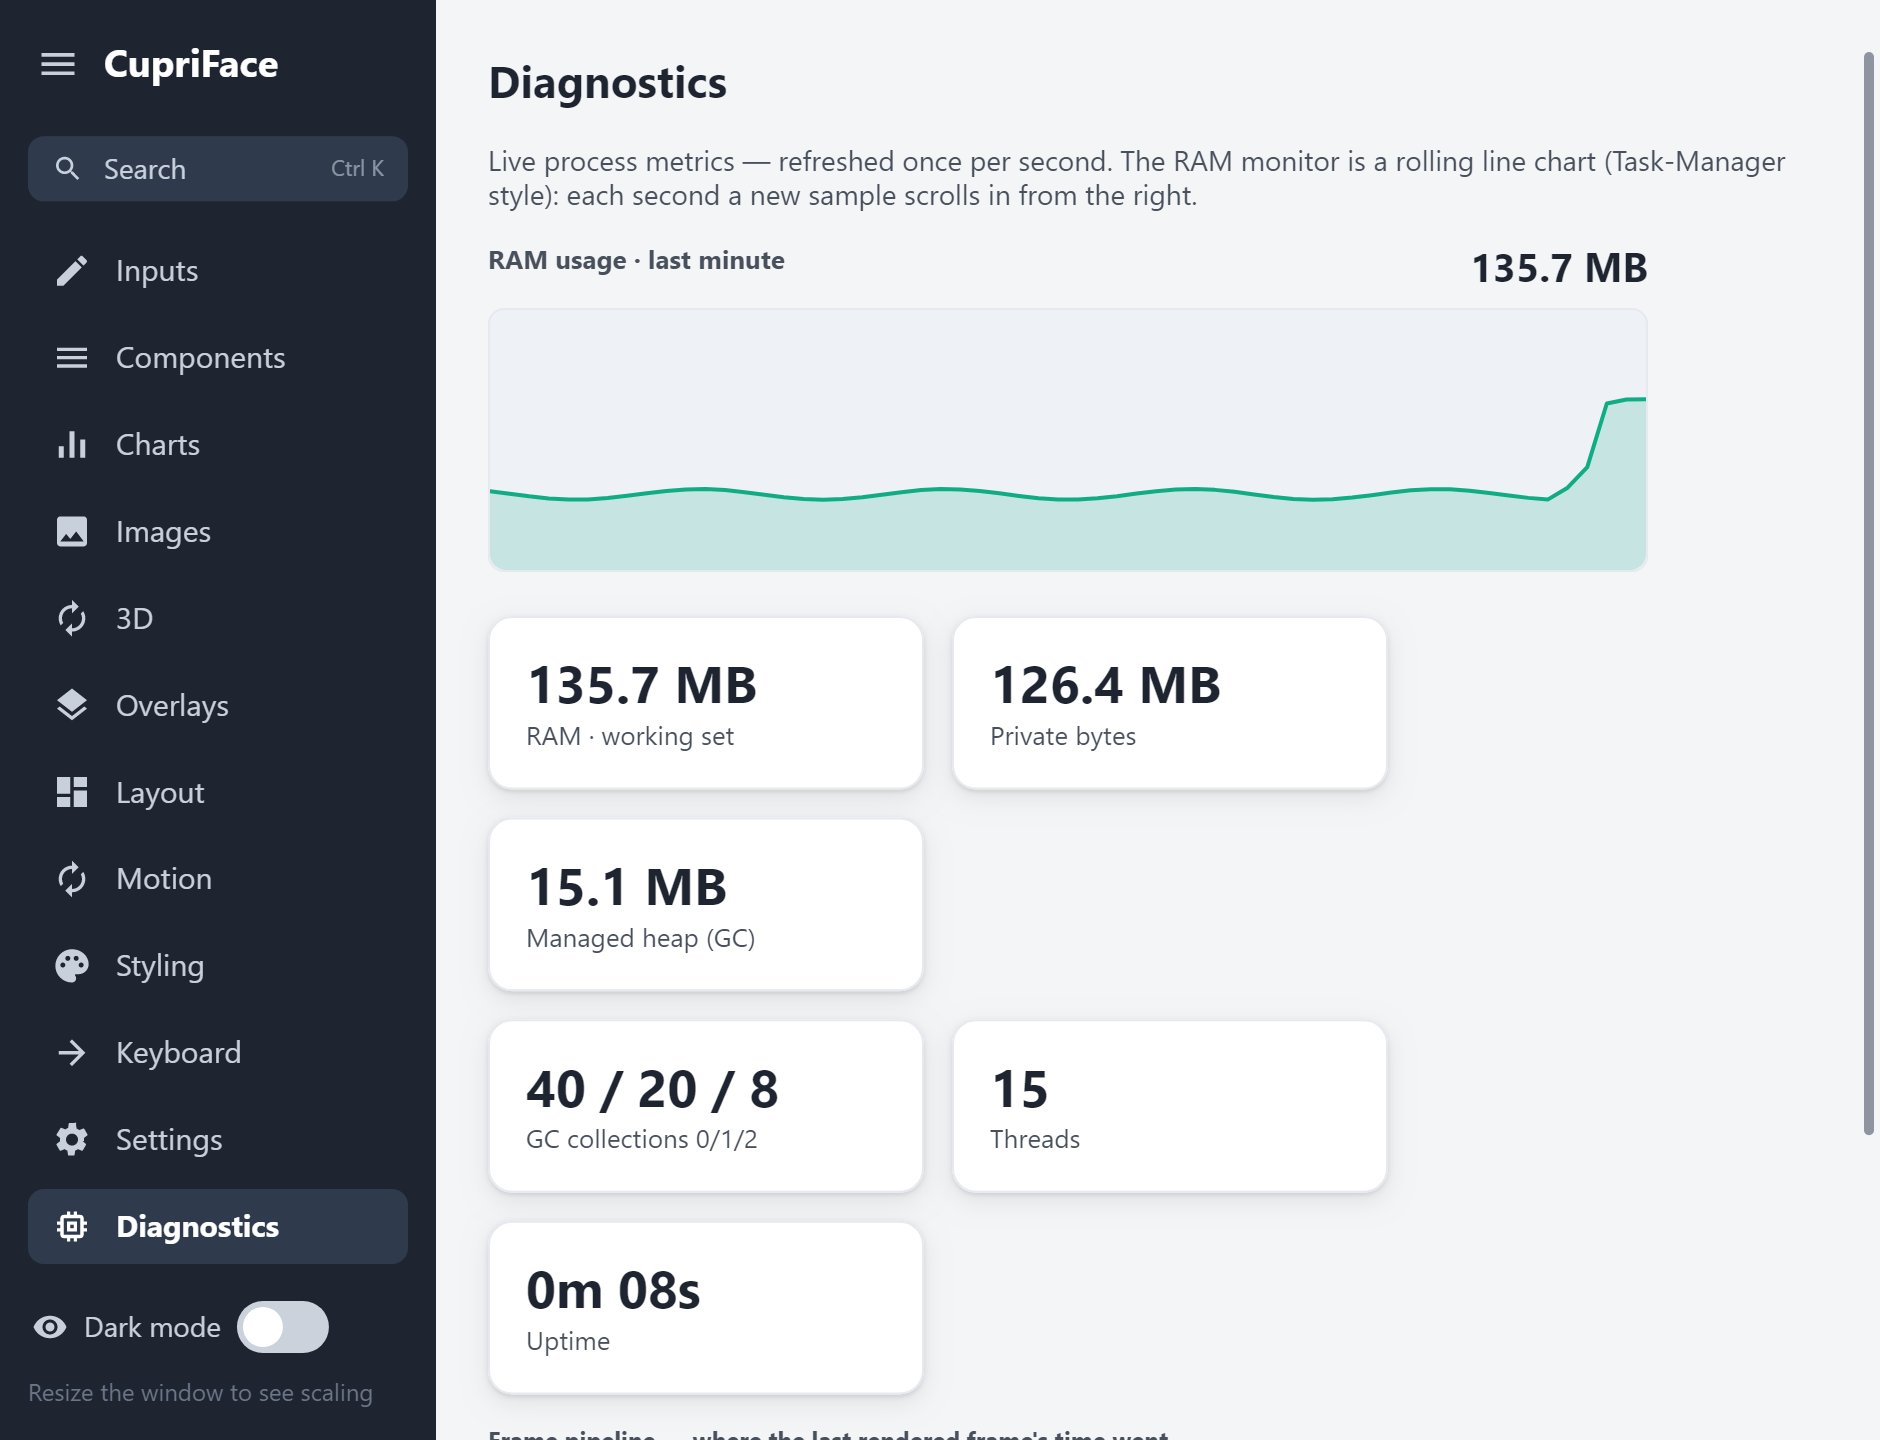
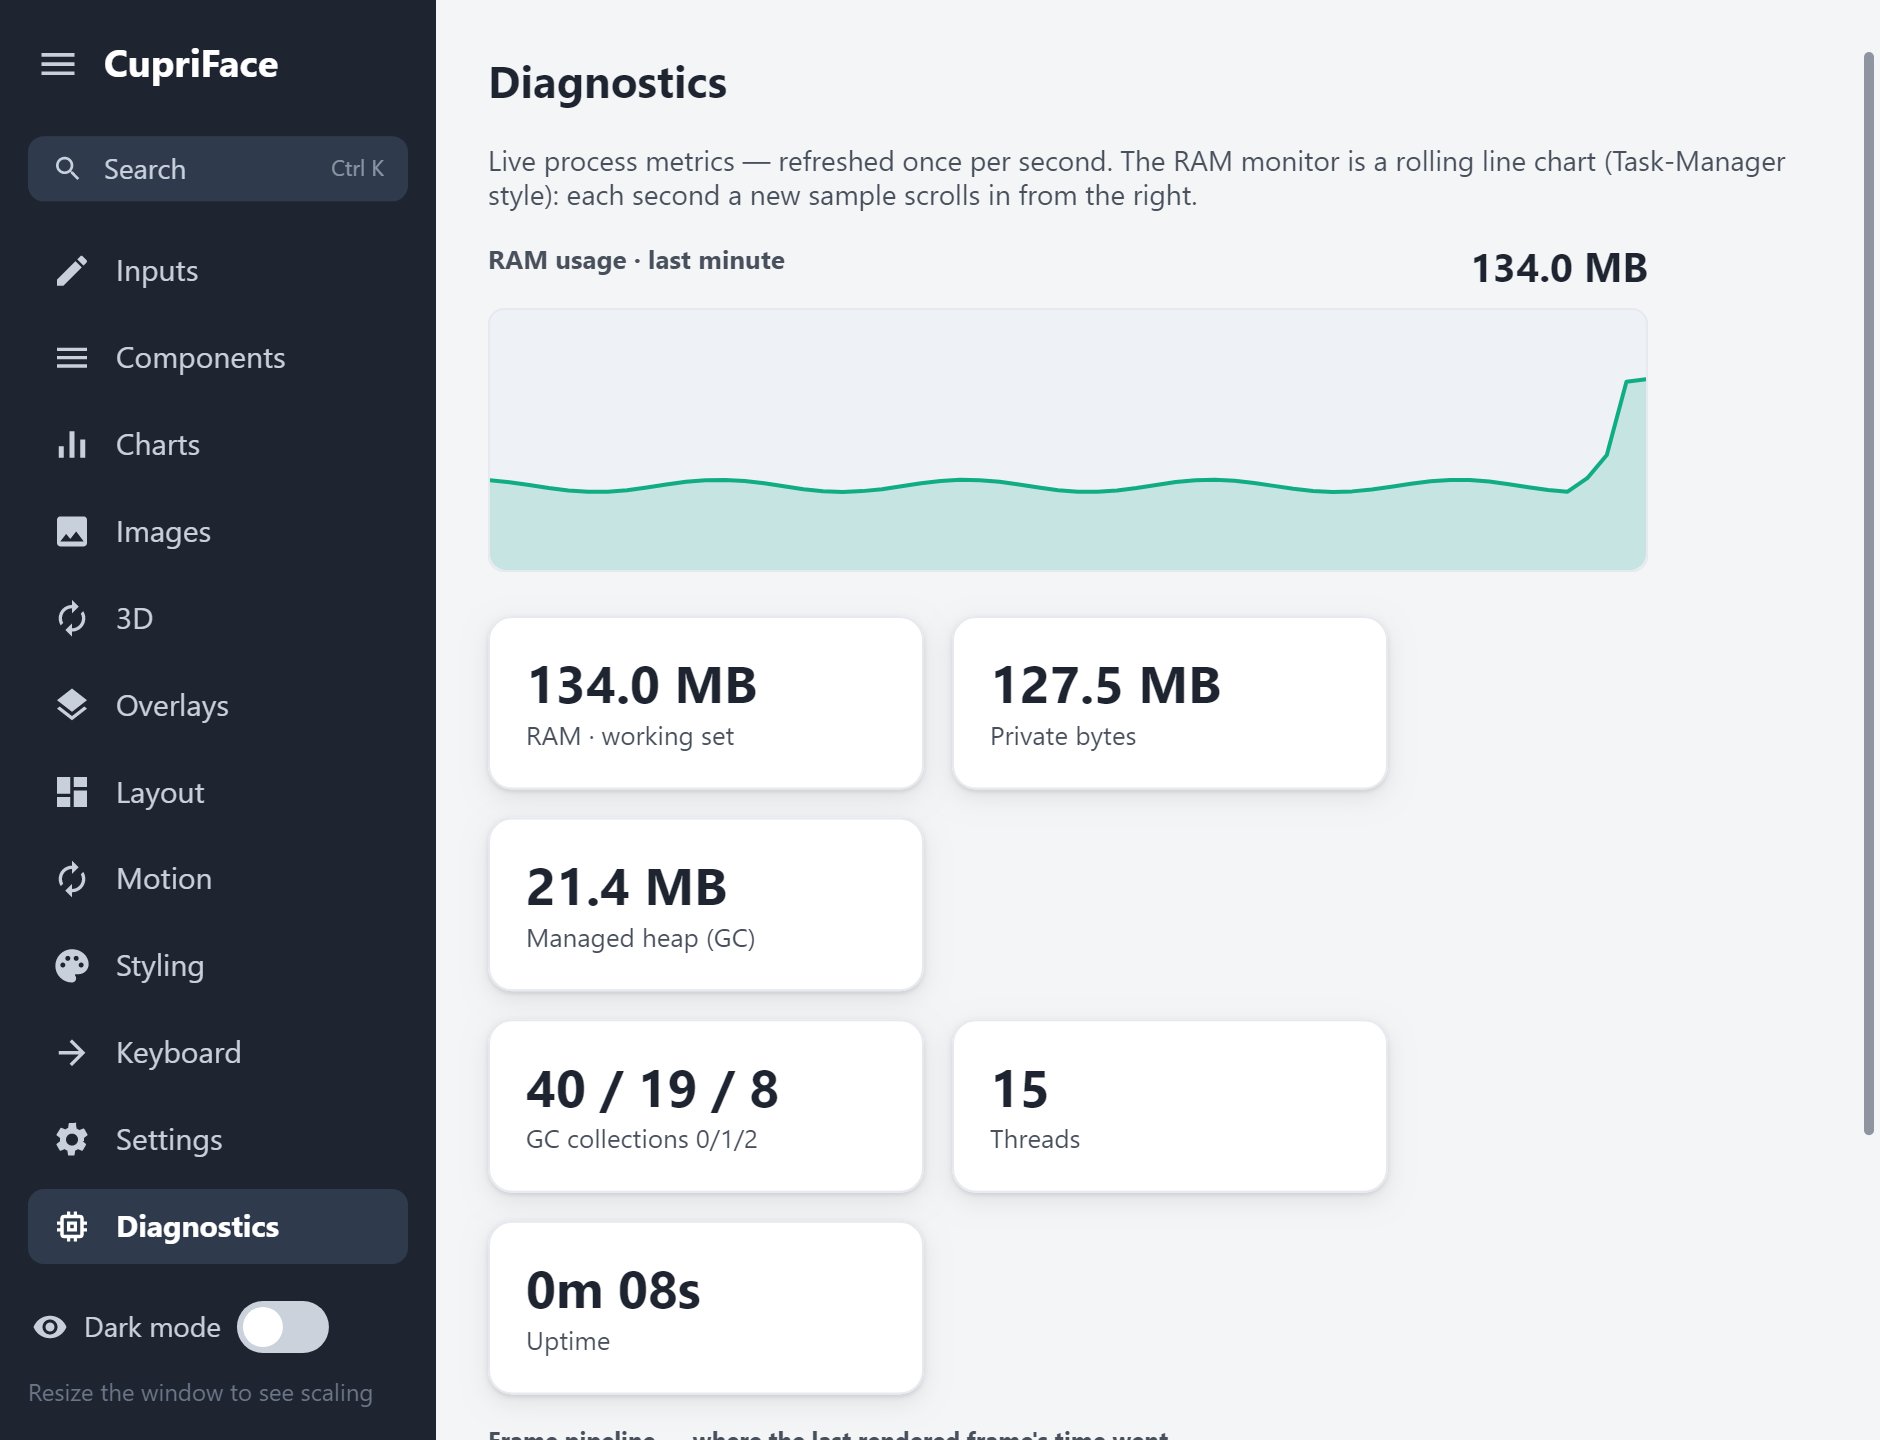
Say "no 3D renderer", because "no renderer" is not what we mean
A reader asked whether "the engine ships no renderer" meant the 3D was only in the sample app. It
does — but the question is the evidence the sentence was badly written: CupriFace IS a renderer, of
HTML and CSS, through Skia. That is the whole product. What it has none of is a THREE-D one, and
dropping the qualifier in the README caption, the feature list and the app's own 3D page made the
claim read as something obviously false.

The wording now says which, and where the 3D actually lives: samples/Demo3d, in no shipped package.
That is checkable — nothing under src/ references it and it is IsPackable=false — so a reader
wondering "is this in the library I depend on?" gets the answer in the sentence instead of having
to grep for it.

samples/Demo3d/README.md had it right already ("CupriFace ships no 3D renderer"). The three places
that mattered most to a newcomer were the three that dropped the word.

Screenshot regenerated, since the corrected sentence is on the page.

803 tests pass.

diff --git a/samples/DemoApp/Assets/ShowcaseApp.html b/samples/DemoApp/Assets/ShowcaseApp.html
@@ -381,10 +381,13 @@ doc.RenderToImage(800, 600);
            what 3D is, and {{Lane3d}} asks the engine which lane the host actually took. -->
       <div class="section" style="display:{{Sec3d}}">
         <div class="title">3D</div>
+        <!-- "no renderer" was the original wording and it confused a reader, reasonably: CupriFace
+             is a renderer — of HTML and CSS, through Skia. What it has none of is a 3D one. -->
         <p class="sub">An <code>ISurfaceSource</code> is a live picture the engine composites like
-          any other content. A video is one; so is a 3D viewport. The engine has no renderer and
-          knows nothing about GL — the host supplies the pixels, and CupriFace decides how they get
-          into the frame.</p>
+          any other content. A video is one; so is a 3D viewport. CupriFace ships no <b>3D</b>
+          renderer and knows nothing about GL — the model below is drawn by sample code
+          (<code>samples/Demo3d</code>, in no shipped package). The engine's part is deciding how
+          those pixels reach the frame.</p>
 
         <div class="lane">Lane on this host — <b>{{Lane3d}}</b></div>
         <!-- The driver's own answer. On the Android emulator this reads "SwiftShader"; on a real

diff --git a/README.md b/README.md
@@ -33,7 +33,7 @@ or whatever else was on the desktop, whereas this can only draw the document.
 | <img src="docs/screenshots/images.jpg" alt="Images"><br>**Images** — `object-fit` modes in a corner-drag `resize: both` frame | ![Overlays](docs/screenshots/overlays.png)<br>**Overlays** — modal dialog over a real backdrop blur; drawers, popovers, toasts, context menus |
 | ![Layout](docs/screenshots/layout.png)<br>**Layout** — flexbox, CSS grid with spans, inline flow, draggable split panes | ![Motion](docs/screenshots/motion.png)<br>**Motion** — `@keyframes`, transforms and CSS transitions |
 | ![Styling](docs/screenshots/styling.png)<br>**Styling** — the cascade, variables, accent theming, shadows and borders | ![Settings](docs/screenshots/settings.png)<br>**Settings** — forms, validation, and the scaling modes |
-| ![3D](docs/screenshots/threed.png)<br>**3D** — a glTF model on the GPU behind live UI, at three alphas. The engine ships no renderer: it composites someone else's pixels | ![Diagnostics](docs/screenshots/diagnostics.png)<br>**Diagnostics** — live frame timings and node counts |
+| ![3D](docs/screenshots/threed.png)<br>**3D** — a glTF model on the GPU behind live UI, at three alphas. The model is drawn by **sample** code in no shipped package; the engine's part is compositing it | ![Diagnostics](docs/screenshots/diagnostics.png)<br>**Diagnostics** — live frame timings and node counts |
 | ![Dark mode](docs/screenshots/inputs-dark.png)<br>**Dark mode** — a CSS variable swap on `body.dark`, cross-faded by a `transition` | |
 
 Run it yourself with `dotnet run --project samples/Viewer` (desktop). The same app also runs in a
@@ -67,7 +67,7 @@ A fully-managed pipeline **parse → style → layout → paint → bind → com
   package plays WebM (VP9 + Opus) with decoders for every desktop RID in **one** package —
   build on any OS, run on any OS.
 - **Live surfaces** — anything can supply pixels for an element through `ISurfaceSource`: a video,
-  a camera, a 3D viewport. The engine ships **no** renderer and knows nothing about GL; it decides
+  a camera, a 3D viewport. CupriFace ships **no 3D** renderer and knows nothing about GL; it decides
   only how those pixels reach the frame, and picks per host — *painted* into the display list where
   it can, or *host-composited* through a transparent hole with a real `<canvas>` beneath the page on
   the web. `IGpuSurfaceSource` lets a producer draw on the host's own GPU context and hand over a
